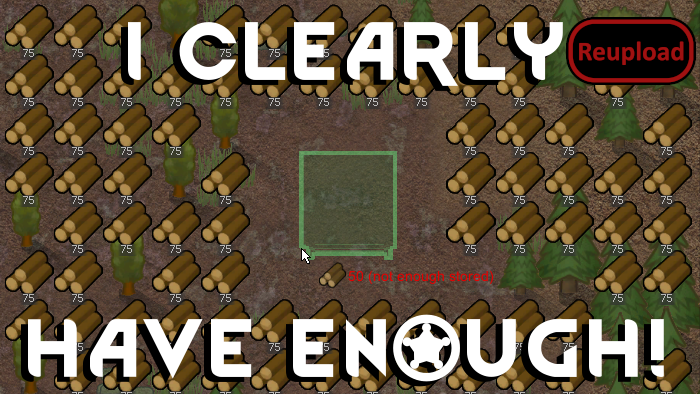
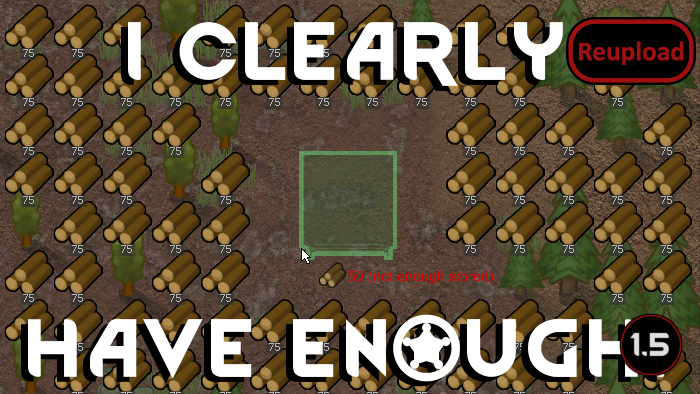
Mod updated for 1.5 and passed autotests Used DeepL to update translations for ChineseSimplified, French, German

Changed region(s): [[0.87, 0.7919, 0.99, 0.9746]]

diff --git a/Source/IClearlyHaveEnough/AllResourcesCounter_MapComponent.cs b/Source/IClearlyHaveEnough/AllResourcesCounter_MapComponent.cs
@@ -5,16 +5,12 @@ using Verse;
 
 namespace IClearlyHaveEnough;
 
-internal class AllResourcesCounter_MapComponent : MapComponent
+internal class AllResourcesCounter_MapComponent(Map map) : MapComponent(map)
 {
     private readonly Dictionary<ThingDef, int> resourceCounts = new Dictionary<ThingDef, int>();
-    private List<string> ignoredDefs = new List<string>();
+    private List<string> ignoredDefs = [];
 
-    private HashSet<ThingDef> resourceThingDefs = new HashSet<ThingDef>();
-
-    public AllResourcesCounter_MapComponent(Map map) : base(map)
-    {
-    }
+    private HashSet<ThingDef> resourceThingDefs = [];
 
     public override void MapComponentTick()
     {
@@ -37,9 +33,9 @@ internal class AllResourcesCounter_MapComponent : MapComponent
 
     public int GetCount(ThingDef def)
     {
-        if (resourceCounts.ContainsKey(def))
+        if (resourceCounts.TryGetValue(def, out var count))
         {
-            return resourceCounts[def];
+            return count;
         }
 
         if (def.resourceReadoutPriority == ResourceCountPriority.Uncounted || ignoredDefs.Contains(def.defName))
@@ -61,7 +57,7 @@ internal class AllResourcesCounter_MapComponent : MapComponent
     public void UpdateResourceCounts()
     {
         resourceCounts.Clear();
-        ignoredDefs = new List<string>();
+        ignoredDefs = [];
         foreach (var thingDef in resourceThingDefs)
         {
             try
@@ -90,8 +86,11 @@ internal class AllResourcesCounter_MapComponent : MapComponent
     private void RefillDefs()
     {
         resourceThingDefs.Clear();
-        resourceThingDefs = new HashSet<ThingDef>(from def in DefDatabase<ThingDef>.AllDefs
+        resourceThingDefs =
+        [
+            ..from def in DefDatabase<ThingDef>.AllDefs
             where def.CountAsResource
-            select def);
+            select def
+        ];
     }
 }

diff --git a/Source/IClearlyHaveEnough/PatcherDrawPanelReadout.cs b/Source/IClearlyHaveEnough/PatcherDrawPanelReadout.cs
@@ -7,8 +7,7 @@ using Verse;
 
 namespace IClearlyHaveEnough;
 
-[HarmonyPatch(typeof(Designator_Build))]
-[HarmonyPatch("DrawPanelReadout")]
+[HarmonyPatch(typeof(Designator_Build), nameof(Designator_Build.DrawPanelReadout))]
 internal class PatcherDrawPanelReadout
 {
     private static IEnumerable<CodeInstruction> Transpiler(IEnumerable<CodeInstruction> instructions)

diff --git a/Source/IClearlyHaveEnough/PatcherMouseAttachment.cs b/Source/IClearlyHaveEnough/PatcherMouseAttachment.cs
@@ -7,8 +7,7 @@ using Verse;
 
 namespace IClearlyHaveEnough;
 
-[HarmonyPatch(typeof(Designator_Build))]
-[HarmonyPatch("DrawPlaceMouseAttachments")]
+[HarmonyPatch(typeof(Designator_Build), "DrawPlaceMouseAttachments")]
 internal class PatcherMouseAttachment
 {
     private static IEnumerable<CodeInstruction> Transpiler(IEnumerable<CodeInstruction> instructions)

diff --git a/Source/IClearlyHaveEnough/UpdateOnArchitectOpen.cs b/Source/IClearlyHaveEnough/UpdateOnArchitectOpen.cs
@@ -4,8 +4,7 @@ using Verse;
 
 namespace IClearlyHaveEnough;
 
-[HarmonyPatch(typeof(MainTabWindow))]
-[HarmonyPatch("PostOpen")]
+[HarmonyPatch(typeof(MainTabWindow), nameof(MainTabWindow.PostOpen))]
 internal class UpdateOnArchitectOpen
 {
     private static void Postfix(MainTabWindow __instance)

diff --git a/README.md b/README.md
@@ -41,11 +41,13 @@ This mod now only counts all the resources on the map every 204 ticks (3.4 secon
 
 -  See if the the error persists if you just have this mod and its requirements active.
 -  If not, try adding your other mods until it happens again.
--  Post your error-log using https://steamcommunity.com/workshop/filedetails/?id=818773962]HugsLib and command Ctrl+F12
+-  Post your error-log using https://steamcommunity.com/workshop/filedetails/?id=818773962]HugsLib or the standalone https://steamcommunity.com/sharedfiles/filedetails/?id=2873415404]Uploader and command Ctrl+F12
 -  For best support, please use the Discord-channel for error-reporting.
 -  Do not report errors by making a discussion-thread, I get no notification of that.
 -  If you have the solution for a problem, please post it to the GitHub repository.
+-  Use https://github.com/RimSort/RimSort/releases/latest]RimSort to sort your mods
 
 
 
+https://steamcommunity.com/sharedfiles/filedetails/changelog/2023661266]![Image](https://img.shields.io/github/v/release/emipa606/IClearlyHaveEnough?label=latest%20version&style=plastic&color=9f1111&labelColor=black)
 
